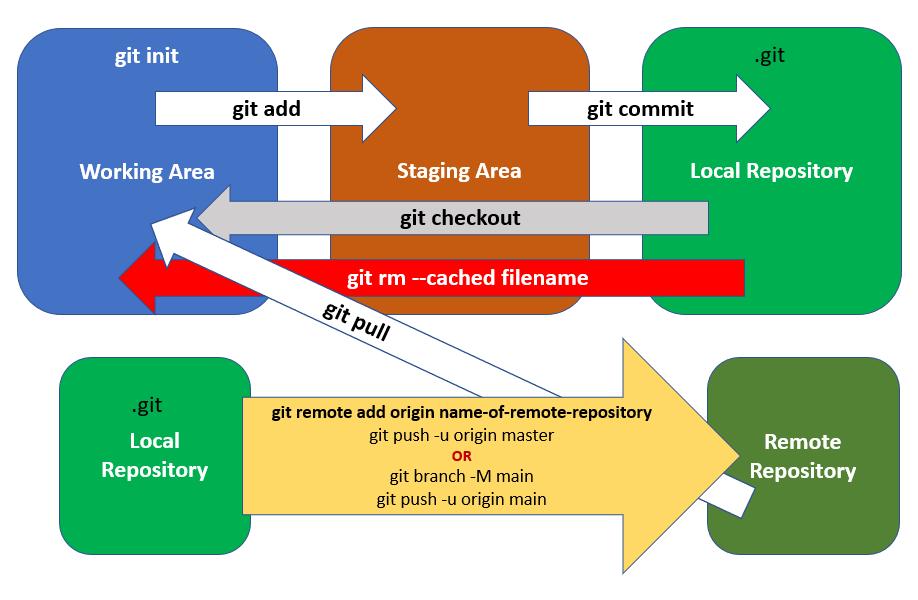
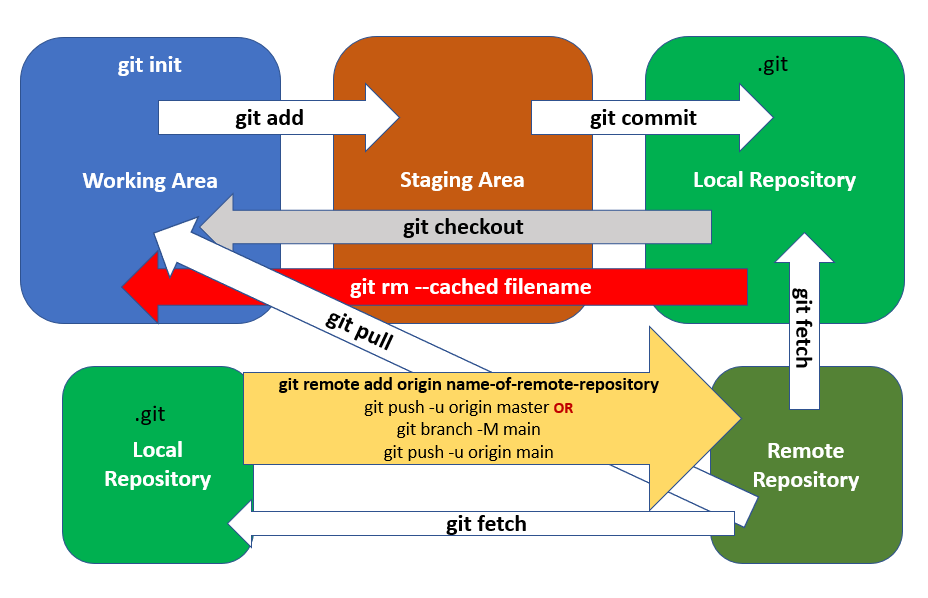
Add modified pngs and README

diff --git a/README.md b/README.md
@@ -40,3 +40,14 @@ git branch  # shows the current branch with an asterix before the branch name
 git branch b2 # create branch b2
 
 git checkout b2 # b2 becomes the current active branch
+
+git checkout main
+git merge b2 # merges branch b2 into current main branch
+
+git fork # create an independent remote repository copy of someone else's remote repository. Must be followed by git clone to get the code into a local repository. On public repositories such as GitHub and Gitlab can click a fork button online.
+
+git clone # copy a remote repository on your computer with copy in Workspace
+
+git fetch # create copy of remote repository in local repository
+
+git pull # create copy of remote repository in local repository's Workspace.
